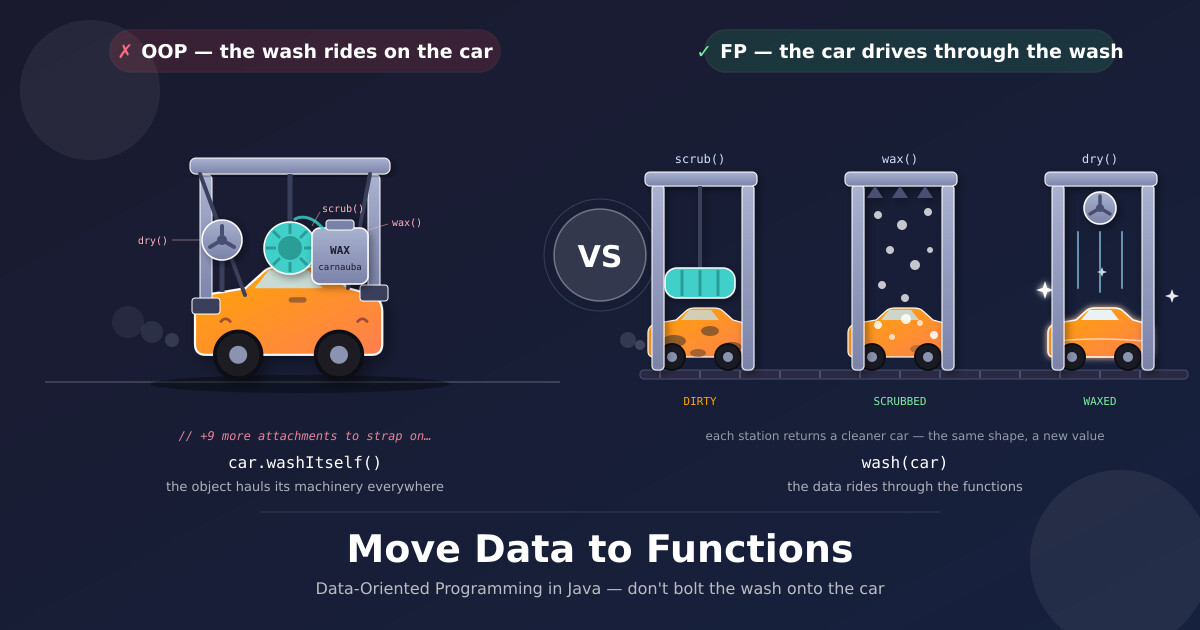
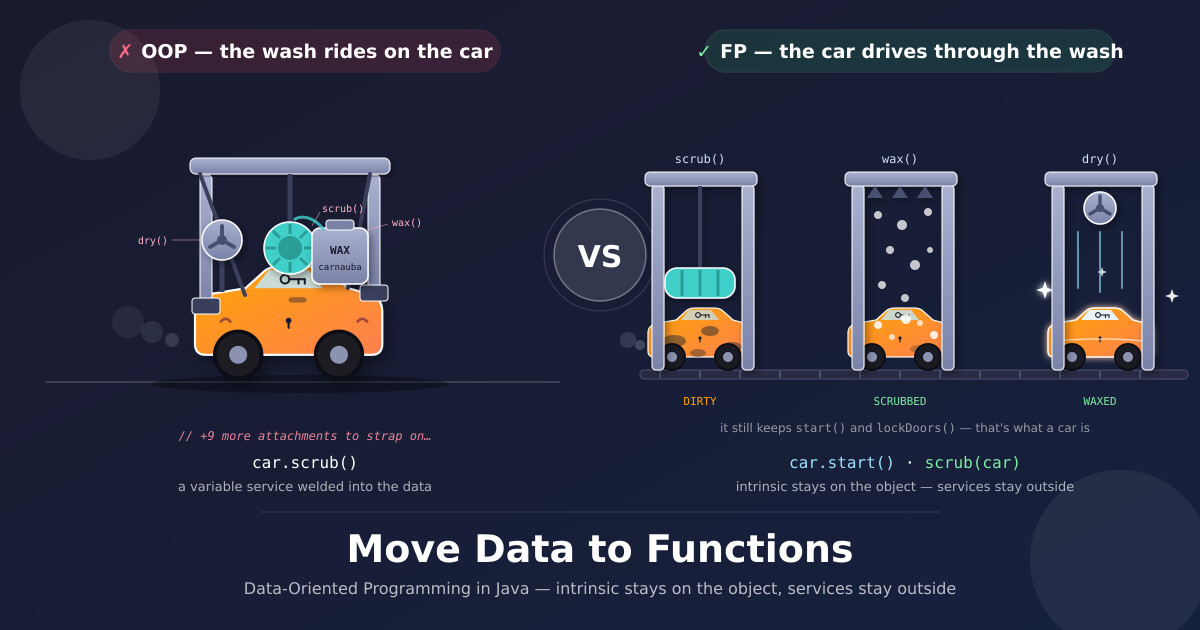
data_to_functions: update post image for boundary rule
Cars now keep intrinsic parts (ignition key, door lock) while the
wash stays external — car.start() vs scrub(car). Syncs the image
with the reframed article.

Generated with [Devin](https://devin.ai)

diff --git a/content/post/java/data_to_functions/index.md b/content/post/java/data_to_functions/index.md
@@ -7,7 +7,7 @@ tags: ["java", "functional programming", "design patterns", "data-oriented progr
 categories: ["java", "functional programming"]
 featureImage: 'fp_data_oriented.svg' # Top image on post.
 shareImage: 'fp_data_oriented.jpg' # For SEO and social media snippets.
-featureImageAlt: 'A car with a whole car wash bolted onto it versus a car driving through the wash — moving data to functions' # Alternative text for featured image.
+featureImageAlt: 'A car with a car wash welded onto it versus a car that keeps its key and locks while driving through wash stations — intrinsic behavior stays on the object, services stay outside' # Alternative text for featured image.
 sourceCode: 'https://github.com/mmarko88/blog-examples' # Renders source-code card above comments.
 toc: true
 ---
